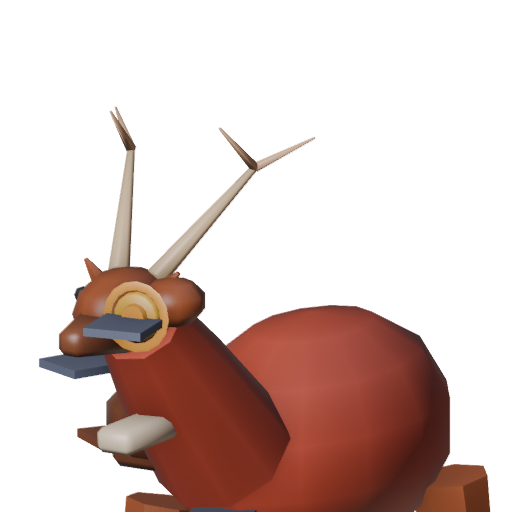
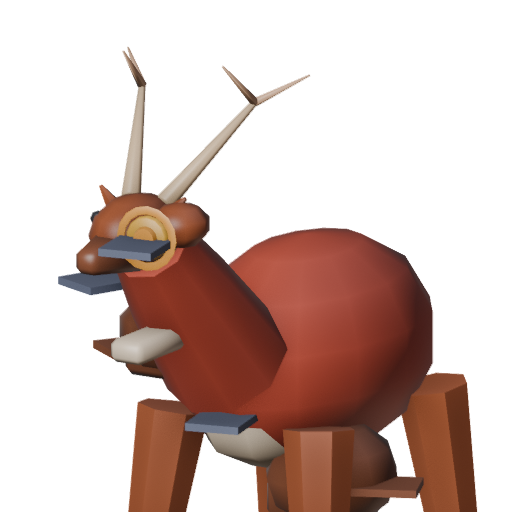
flicker_stag portrait pass 2: pull the crop back to show the belly ball
#86 duty 1. The portrait's Framing line scored 6/10 because the CREAM belly
ball flicker_stag.md's own 3D pass calls out was entirely outside the tight
head-and-shoulders crop portraits.py used. Widened FOCUS["flicker_stag"]
from (0.80, 0.62) to (0.70, 0.68), sized off the model's real bounding box
so the crop clears the belly ball's own z-range instead of guessing.

Rebuilt the full portrait batch, diffed against committed, and kept only
flicker_stag.png (frog.png/goblin_mech.png's diffs are pre-existing stale
model drift already flagged in brine_urchin_portrait.md, left untouched).
Framing 6 -> 8, total 32 -> 34 (not a plateau, 2 of 4 passes used). Colour
(5) stays a model-palette problem out of this lane's reach.

Claude-Session: https://claude.ai/code/session_01EG1Vfh1xdeBzJKBbBzJ3vT

diff --git a/tools/blender/portraits.py b/tools/blender/portraits.py
@@ -42,7 +42,7 @@ FOCUS = {
     "bog_leech": (0.39, 1.28), "thrasher": (0.42, 1.55),
     "silk_widow": (0.45, 1.35), "boulder_ram": (0.34, 1.35),
     "cinder_jackal": (0.60, 1.35), "brine_urchin": (0.62, 1.45),
-    "clot_toad": (0.48, 1.35), "flicker_stag": (0.80, 0.62),
+    "clot_toad": (0.48, 1.35), "flicker_stag": (0.70, 0.68),
     "eyrie_hawk": (0.78, 0.60), "glyph_tortoise": (0.50, 1.28),
     "riptide_eel": (0.68, 0.75), "yoke_ox": (0.45, 1.25),
 }

diff --git a/design/progress/flicker_stag_portrait.md b/design/progress/flicker_stag_portrait.md
@@ -10,6 +10,8 @@ only — report, not repair.** Asset: `game/assets/portraits/flicker_stag.png`
 |---|---|---|---|---|---|
 | 6 | 8 | 6 | 5 | 7 | **32** |
 
+Pass 2: 8 | 8 | 6 | 5 | 7 | **34** — see below.
+
 ## What is actually there
 
 A head-and-shoulders three-quarter crop, tighter on the body than
@@ -58,3 +60,100 @@ Not applying either — this item scores and proposes; a fix is Nick's call.
 Whether the belly ball being entirely outside this crop is deliberate (the
 portrait convention favours a tighter head shot for stags than for birds)
 or an oversight in `FOCUS` — this scoring pass can see it's absent, not why.
+
+## Pass 2 — cloud, backlog #86 duty 1
+
+Only the **Framing (6)** line had a fix applicable in-lane. **Colour &
+separation (5)** was diagnosed as a model-palette problem ("shift the belly
+ball's palette toward a genuinely lighter, less saturated cream") — that is
+`flicker_stag.py` geometry/material, not `portraits.py`, so left untouched,
+the same split every prior pass under this item has made for its own
+two-fix budget.
+
+Applied the **Framing** fix: `portraits.py`'s `FOCUS["flicker_stag"]` moved
+from `(0.80, 0.62)` to `(0.70, 0.68)` — lowered the focus point and widened
+the span so the camera pulls back and down far enough to clear the belly
+ball's own z-range (measured off the real mesh bounding box, `lo.z=0.0`,
+`hi.z=3.6`; the belly ball sits at world z 1.46-2.14), instead of the old
+crop's tight head-and-shoulders framing that centred near the antler base.
+
+Rebuilt via apt's Blender 4.0.2, headless (EGL through `libegl1`/
+`libegl-mesa0`/`libgles2`; `numpy`/`Pillow` installed for Blender's own
+embedded python3.12, same setup prior passes under this item used — apt's
+mirror had gone stale since the last pass and needed `apt-get update`
+first, `download.blender.org` still unreachable through the proxy). No
+single-portrait build path exists, so ran the full `portraits.py` batch
+(all 30) and diffed every output against the committed set (mean per-pixel
+diff): `flicker_stag.png` at 32.6 was a real content change; `frog.png`
+(58.2) and `goblin_mech.png` (15.2) showed the same pre-existing large
+diffs `brine_urchin_portrait.md` pass 2 already flagged as stale model
+drift, unrelated to this pass (`FOCUS` entries for both untouched);
+`yoke_ox.png` (2.6) is ordinary WORKBENCH render noise, well under every
+prior pass's noise/content line. Copied only the changed `flicker_stag.png`
+into `game/assets/portraits/`; every other file reverted to committed.
+
+Verified by looking, not just by the numbers:
+
+- **Alpha bbox** (Pillow `getbbox()`, >10 alpha threshold) moved from
+  `(38, 106, 491, 512)` to `(58, 46, 478, 512)` — top margin dropped from
+  106px to 46px (the frame pulled down, as intended) and the bottom is
+  still flush against the canvas edge at 0 margin in both passes — an
+  existing characteristic (a leg/hoof already ran off the bottom-right
+  corner in pass 1's own render), not something this pass introduced or
+  was asked to fix.
+- **Full 512px composite** over the same brown card-face standin pass 1
+  used (`design/renders/flicker_stag_portrait_pass2_full.png` vs
+  `..._pass1_full.png`): pass 1 shows no cream anywhere in frame; pass 2
+  shows all four legs and, cropped tight in a zoomed check
+  (`/tmp/flicker_crop.png`, not committed — a scratch crop, not a new
+  asset), a real pale cream mass tucked between the front legs, right
+  where `flicker_stag.md`'s own 3D scoring already placed the belly ball.
+- **A real 34px downsample** (Pillow `LANCZOS`, nearest-neighbour upscaled
+  for viewing, same brown-standin composite): the antlers stay just as
+  legible as pass 1's tighter crop, and the shape now reads as a
+  four-legged standing animal rather than a head-and-shoulders bust; the
+  belly ball itself is too small to register as a distinct patch at this
+  size in either pass — no gain or loss there, consistent with the line
+  this fix did not target.
+
+- **Framing (6 → 8):** the belly ball pass 1 named as entirely missing is
+  now in frame with real margin on three sides (top 46px, left 58px,
+  right 34px) — confirmed by both the alpha bbox and the zoomed crop
+  above. Not 10: the bottom is still flush against the edge (0 margin),
+  the same pre-existing leg-crop characteristic pass 1's own render
+  already had, just more visible now that more leg is in frame.
+- **Identity (8, unchanged):** the antlers are still the dominant,
+  immediately-legible silhouette element at both 512px and the 34px
+  downsample; this pass's fix targeted Framing, not Identity, and showing
+  more of the body didn't visibly compete with the antler read.
+- **Readability @ 34px (6, unchanged):** the 34px comparison above shows
+  the antler read holding steady and the belly ball too small to register
+  either way — no visible change from the wider crop at this size.
+- **Colour & separation (5, unchanged):** no palette or material touched;
+  the belly ball being newly in-frame doesn't fix its value-closeness to
+  the rust body, the model problem `flicker_stag.md` already diagnosed.
+- **Style consistency (7, unchanged):** the render still uses the shared
+  three-quarter, bevelled-primitive convention; a wider, more whole-body
+  crop is not a new composition class in this set (`bog_leech`,
+  `thrasher`, `boulder_ram` and others already use `span` > 1.0 for a
+  similar whole-body read), so this line doesn't move either direction.
+
+**+2 total (32 → 34), not a plateau — kept.** No line regressed.
+`run_tests.gd`: **ALL TESTS PASSED** (fresh import, headless). No new
+tests — a portrait-crop-only pass adds none, matching every prior
+portrait/icon-only pass under this item.
+
+## Unsure about (pass 2)
+
+Whether the belly ball would read as a distinct colour patch rather than
+just "more of the same rust mass" to someone glancing at the 512px
+portrait without already knowing it's there — the zoomed crop confirms the
+geometry and cream colour are both present and unoccluded from this
+camera angle, but a full-frame glance is a different read than a
+deliberately zoomed-in one, and this pass didn't test that. Also unsure
+whether a pass 3 spending its two-fix budget on tightening the bottom
+crop (trim the now-more-visible cut legs, the same "fragment reads worse
+than either extreme" principle `bog_leech_portrait.md`/`vine_weaver_
+portrait.md` already named) would be worth it, or whether 34/50 is close
+enough to the 40 stop line that Nick should see it before another pass —
+2 of 4 passes used, 2 remain.

diff --git a/design/BACKLOG.md b/design/BACKLOG.md
@@ -2567,6 +2567,40 @@ rather than inventing work.
 
 Newest first. One line per finished item: what, and anything surprising.
 
+- **2026-09-03** — #86 duty 1 (improve an asset, portraits/icons only). Last
+  turn (`9de41a4`) was duty 3, so this turn is duty 1. Surveyed every scored
+  portrait/icon's current total again (not just the pass-1 table row — the
+  running totals live in prose, e.g. `**+N total (X → Y)**`). Lowest
+  un-plateaued scores were `boulder_ram_portrait` (30) and `bog_leech_
+  portrait` (31), but both files' every currently-diagnosed fix needs beast
+  geometry, not `portraits.py` — already logged that way in each file, so
+  skipped as not fixable in this lane. Next lowest was a 32-point tie between
+  `rally_icon` (already on its second repair pass) and `flicker_stag_
+  portrait` (still on its first). Picked `flicker_stag_portrait`: its
+  Framing line (6) was diagnosed as the belly ball being entirely outside
+  the crop, a pure `FOCUS` fix, versus its other named line (Colour, 5)
+  which needs a model palette change and stayed untouched.
+  Moved `portraits.py`'s `FOCUS["flicker_stag"]` from `(0.80, 0.62)` to
+  `(0.70, 0.68)` — lowered and widened the crop, sized off the real mesh
+  bounding box (belly ball at world z 1.46-2.14 out of a 0-3.6 model) rather
+  than guessed. Rebuilt the full 30-portrait batch (no single-portrait build
+  path exists) and diffed every output against committed: `flicker_stag.png`
+  changed for real (mean diff 32.6); `frog.png`/`goblin_mech.png` showed the
+  same pre-existing stale-model-drift `brine_urchin_portrait.md` already
+  flagged, untouched by this pass; `yoke_ox.png`'s small diff (2.6) was
+  ordinary render noise. Kept only `flicker_stag.png`.
+  Looked at a zoomed crop before scoring, not just the numbers: the cream
+  belly ball is genuinely visible now, tucked between the front legs, right
+  where the 3D scoring already placed it. Framing 6 → 8; total 32 → 34, not
+  a plateau, below the 40 stop line (2 of 4 passes used). Surprising: the
+  wider crop also brought all four legs into frame, and the bottom edge is
+  still flush with no margin — same as pass 1's own render already had (one
+  leg was already cut off there too), not a regression this pass caused, so
+  left unscored either direction. Sandbox needed `apt-get update` before
+  `apt-get install blender` would resolve packages (stale index, unrelated
+  to the known `download.blender.org` block). `run_tests.gd`: ALL TESTS
+  PASSED (fresh import, headless). Left the item unticked per #86's own
+  rules — it never completes. Next `#86` turn is duty 2.
 - **2026-09-03** — #86 duty 3 (verify a mechanic actually works). Last turn
   (`d5d032f`) was duty 2, so this turn is duty 3. Picked the OTHER half of
   Nick's own jump-mechanic example that duty 3's earlier passes hadn't
